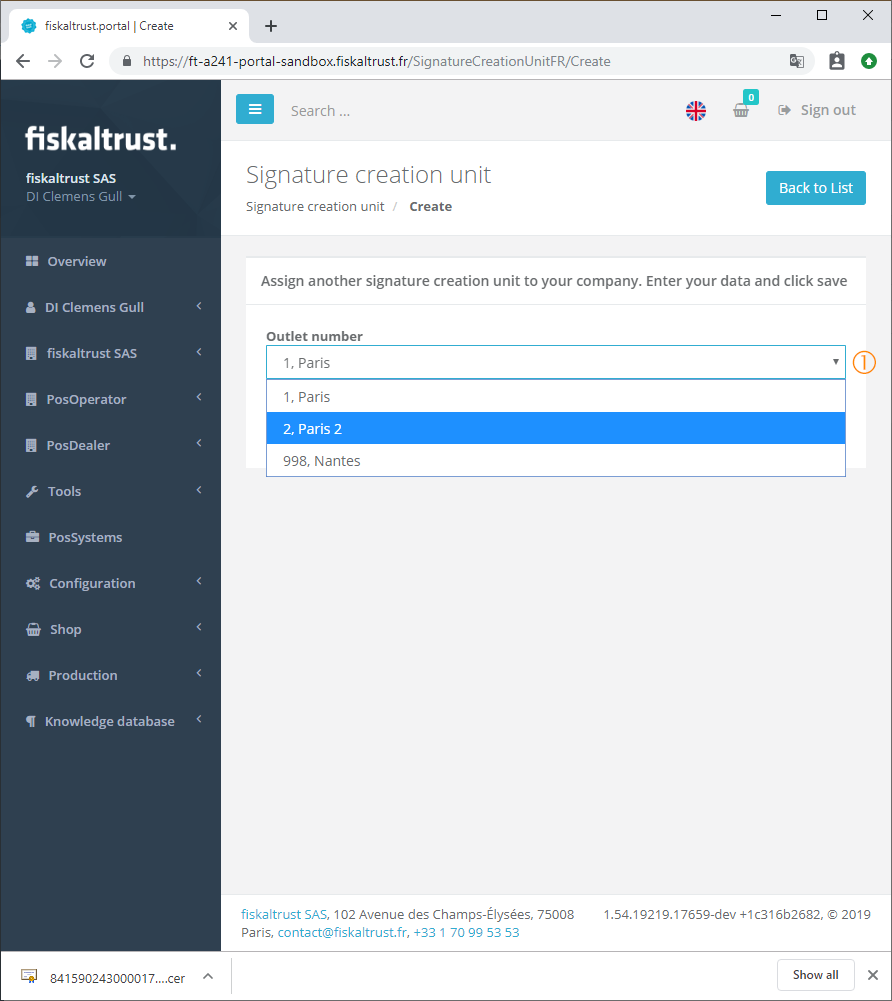
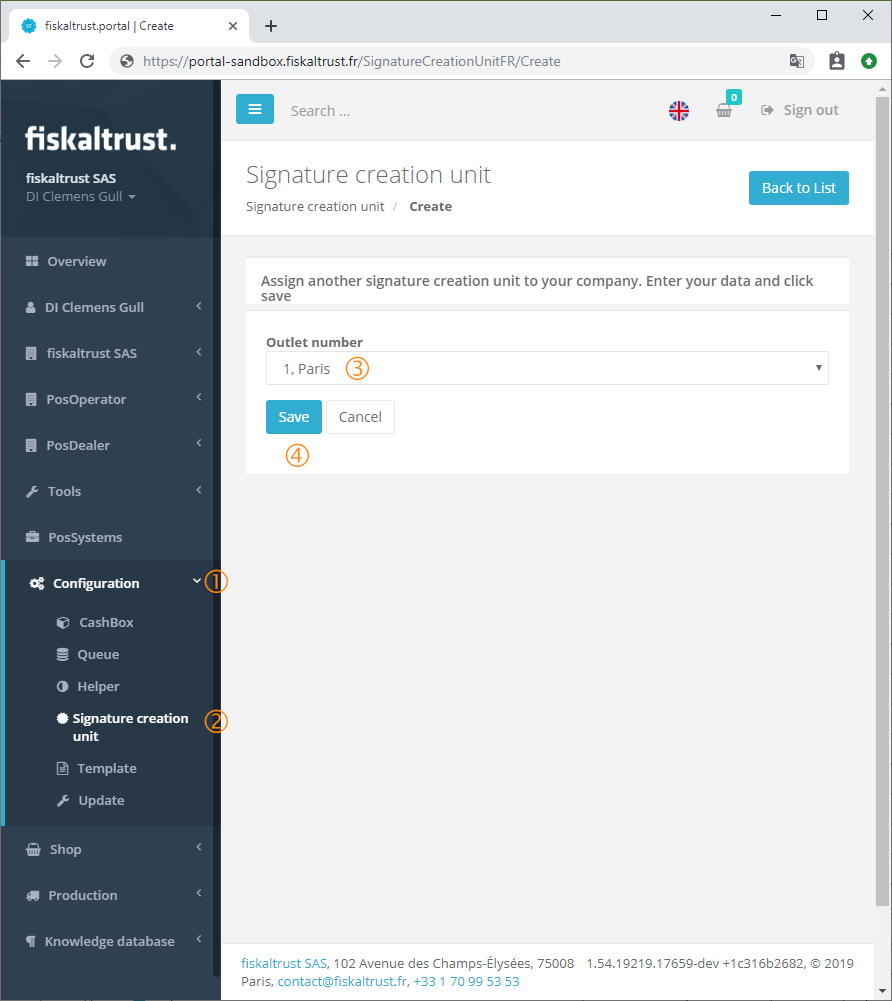
Queue management, 2. part (SCU)

diff --git a/doc/handbook-fr/configuration.md b/doc/handbook-fr/configuration.md
@@ -77,7 +77,7 @@ Edit CashBox by list
 
 <img src="../images/Numbers/circle-3o.svg" width="24px"> Click ![Gear](../images/Buttons/030.png "Gear") on the ending of a row to display the settings for each object.
 
-<img src="../images/Numbers/circle-4o.svg" width="24px"> Each Queue owns a certificate for signing all the data send to. With the button  ![Certificate download](../images/Buttons/039.png "Certificate download") the certificate of a queue can be downloaded and verfified.
+<img src="../images/Numbers/circle-4o.svg" width="24px"> Each Queue owns a certificate from a SCU for signing all the data send to. With the button ![Certificate download](../images/Buttons/039.png "Certificate download") the certificate of a assigned SCU can be downloaded and verified.
 
 <img src="../images/Numbers/circle-5o.svg" width="24px"> For filtering all the tables/sections in this window at least 3 characters have to be entered. 
 
@@ -117,7 +117,7 @@ Overview of queues
 
 To get to the creation and _Configuration_<img src="../images/Numbers/circle-1o.svg" width="24px"> of a queue, click on the menu item _Queue_<img src="../images/Numbers/circle-2o.svg" width="24px">.
 
-To find a specific queue a text can be entered in the search field<img src="../images/Numbers/circle-3o.svg" width="24px">. Starting with the second entered character the table beneath gets filtered automatically.
+To find a specific queue, a text can be entered in the search field<img src="../images/Numbers/circle-3o.svg" width="24px">. Starting with the second entered character the table beneath gets filtered automatically.
 
 A click on the button _+&nbsp;Create new_<img src="../images/Numbers/circle-4o.svg" width="24px"> adds a new queue to the accoung
 
@@ -251,44 +251,38 @@ TODO!
 
 ### Signature creation unit (SCU)<a name="SCU"></a>
 
-#### Overview of Signature creation units
+The SCU is the part of the fiskaltrust.Service for securing all the receipts send to it. In France the SCU is the holder of the certificate to guarantee the unalterability, securtiy, conservation and archiving of the send data.
 
-[![https://portal.fiskaltrust.at/SignatureCreation/](images/portal-sandbox.fiskaltrust.at/SignatureCreation/003.png "https://portal.fiskaltrust.at/SignatureCreation/")](https://portal.fiskaltrust.at/SignatureCreation/)
-Overview - Signature Creation Devices (SCU)
+#### Overview of signature creation units
 
-![Number 1](../images/Numbers/1.png) To get to the configuration of the signature creation devices, click on the menu item "*Signature creation device*".
+[![https://portal.fiskaltrust.fr/SignatureCreationUnit/](images/SignatureCreationUnit/SignatureCreationUnit.png "https://portal.fiskaltrust.fr/SignatureCreationUnit/")](https://portal.fiskaltrust.fr/SignatureCreationUnit/)
+Overview - Signature Creation Units (SCU)
 
-![Number 2](../images/Numbers/2.png) Click on \[Create\] to go to the page for creating a new signature creation device.
+To find a specific SCU, a text can be entered in the search field<img src="../images/Numbers/circle-1o.svg" width="24px">. Starting with the second entered character the table beneath gets filtered automatically.
 
-![Number 3](../images/Numbers/3.png) The name of the SCU is displayed here.
+<img src="../images/Numbers/circle-2o.svg" width="24px"> Clicking on [+&nbsp;Create] opens the module for creating a new signature creation unit, see [_Creation of a SCU_](#creation-of-a-scu).
 
-![Number 4](../images/Numbers/4.png) By clicking on ![Gear](../images/Buttons/009.png "Gear"), the basic settings and package configuration for individual use of the signature creation device in the cash register can be called up again.
+<img src="../images/Numbers/circle-3o.svg" width="24px"> The SIRET used by the SCU is displayed here. This reflects the loose coupling of the SCU to the outlet, see for more information chapter [_Outlets_](company.md#outlets).
 
-![Number 5](../images/Numbers/5.png) By clicking on ![Edit](../images/Buttons/005.png "Edit") things like the description, package name, version and mode of SCU may be edited.
+<img src="../images/Numbers/circle-4o.svg" width="24px"> Shows the serial number of the certificate of the SCU. 
 
-![Number 6](../images/Numbers/6.png) Click on ![Trash](../images/Buttons/029.png "Trash") to delete the SCU. However, the button to delete the helper is currently inactive for legal reasons, so no helper can currently be deleted.
+<img src="../images/Numbers/circle-5o.svg" width="24px"> Each SCU holds a certificate for signing all the data send to. With the button ![Certificate download](../images/Buttons/047.png "Certificate download") the certificate of this SCU can be downloaded and verified.
 
-![Number 7](../images/Numbers/7.png) A brief overview of the data for the selected signature creation device is displayed here.
+<img src="../images/Numbers/circle-6o.svg" width="24px"> Click on ![Delete SCU](../images/Buttons/029.png "Delete SCU") to delete the SCU. However, the button to delete any signature creation unit is currently inactive for legal reasons, so no SCU can be deleted.
 
-![Number 8](../images/Numbers/8.png) The search function can be used to search for a SCU by entering any parameter in the search field.
+#### Creation of a SCU<a name="creation-of-a-scu"></a>
 
-#### Creation of a SCU
+[![https://portal.fiskaltrust.fr/SignatureCreationUnitFR/](images/SignatureCreationUnitFR/Create.png "https://portal.fiskaltrust.fr/SignatureCreationUnitFR/")](https://portal.fiskaltrust.fr/SignatureCreationUnitFR/)
+Adding a signature creation unit
 
-[![https://portal.fiskaltrust.at/SignatureCreation/](images/portal-sandbox.fiskaltrust.at/SignatureCreation/001.png "https://portal.fiskaltrust.at/SignatureCreation/")](https://portal.fiskaltrust.at/SignatureCreation/)
-Adding a signature creation device
+To create the signature creation unit, command _Signature creation device_<img src="../images/Numbers/circle-2o.svg" width="24px"> in the _Configuration_<img src="../images/Numbers/circle-1o.svg" width="24px"> menu. A click on [+&nbsp;Create] opens the page for adding a new SCU to the company.
 
-![Number 1](../images/Numbers/1.png) To create, configure and delete the signature creation devices, click on the "Signature creation device" menu item.
+In the dropdown list all [outlets](company.md#outlets) of the company are shown. To create a SCU an outlet has to be selected. It is not necessary to create more then one SCU for an outlet, but at least one per outlet has to be created. It is not possible to use one signature creation unit for more then one outlet because the SIRET of the selected outlet is used to created the certificate for a SCU.
 
-![Number 2](../images/Numbers/2.png) Click on \[Create\] to open a page where a new signature creation device can be created.
-
-#### Add Signature creation unit
+#### Add signature creation unit
 
 To connect a SCU to a CashBox or more special to a queue see [Outlets](#outlets) and[SCUs used by a queue](#scus-used-by-a-queue)
 
-#### Delete a Signature creation unit
+#### Delete a signature creation unit
 
-For legal reasons, it is currently not possible to delete the signature creation device.
-[![https://portal.fiskaltrust.at/SignatureCreation/](images/portal-sandbox.fiskaltrust.at/SignatureCreation/006.png "https://portal.fiskaltrust.at/SignatureCreation/")](https://portal.fiskaltrust.at/SignatureCreation/)
-Signature creation device - Delete
-
-The button for deleting a SCU is for legal reasons inactive. No once created SCU can be deleted from the fiskaltrust.Service. In the future there will be a filter to hide unused or inactive SCUs.
+The button for deleting a signature creation unit is for legal reasons inactive. No created SCU can be deleted from the fiskaltrust.Service. In the future there will be a filter to hide unused or inactive SCUs.
